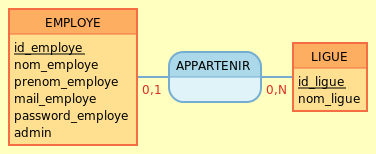
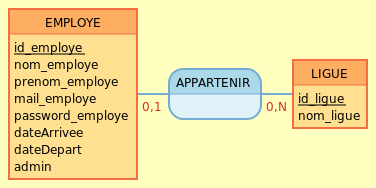
Ajout des dates dans le MCD

diff --git a/MCD/MCD_mld.html b/MCD/MCD_mld.html
@@ -8,12 +8,14 @@
     <span class='normal'>prenom_employe</span>,
     <span class='normal'>mail_employe</span>,
     <span class='normal'>password_employe</span>,
+    <span class='normal'>dateArrivee</span>,
+    <span class='normal'>dateDepart</span>,
     <span class='normal'>admin</span>,
     <span class='foreign'>#id_ligue</span>
   )</summary>
   <ul>
     <li>Le champ <i>id_employe</i> constitue la clé primaire de la table. C'était déjà un identifiant de l'entité <i>EMPLOYE</i>.</li>
-    <li>Les champs <i>nom_employe</i>, <i>prenom_employe</i>, <i>mail_employe</i>, <i>password_employe</i> et <i>admin</i> étaient déjà de simples attributs de l'entité <i>EMPLOYE</i>.</li>
+    <li>Les champs <i>nom_employe</i>, <i>prenom_employe</i>, <i>mail_employe</i>, <i>password_employe</i>, <i>dateArrivee</i>, <i>dateDepart</i> et <i>admin</i> étaient déjà de simples attributs de l'entité <i>EMPLOYE</i>.</li>
     <li>Le champ <i>id_ligue</i> est une clé étrangère. Il a migré par l'association de dépendance fonctionnelle <i>APPARTENIR</i> à partir de l'entité <i>LIGUE</i> en perdant son caractère identifiant.</li>
   </ul></details>
 </div>
